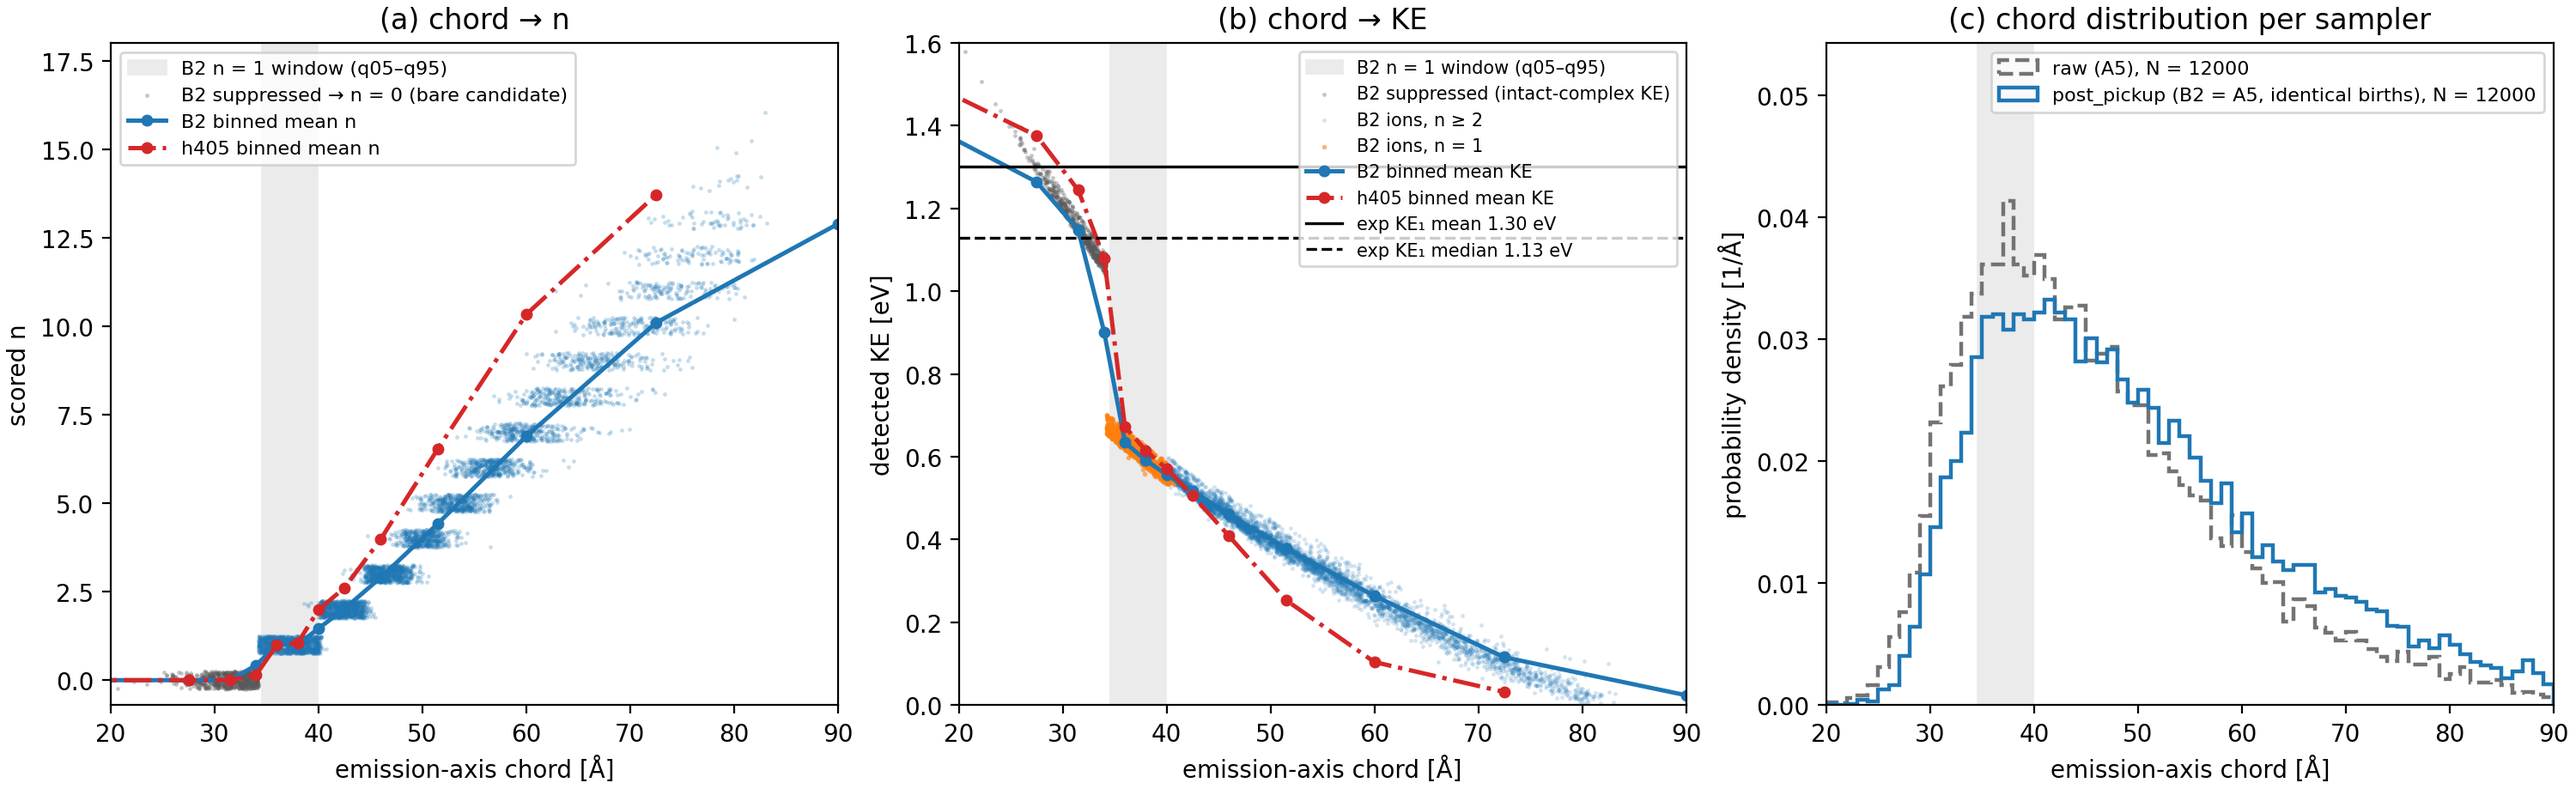
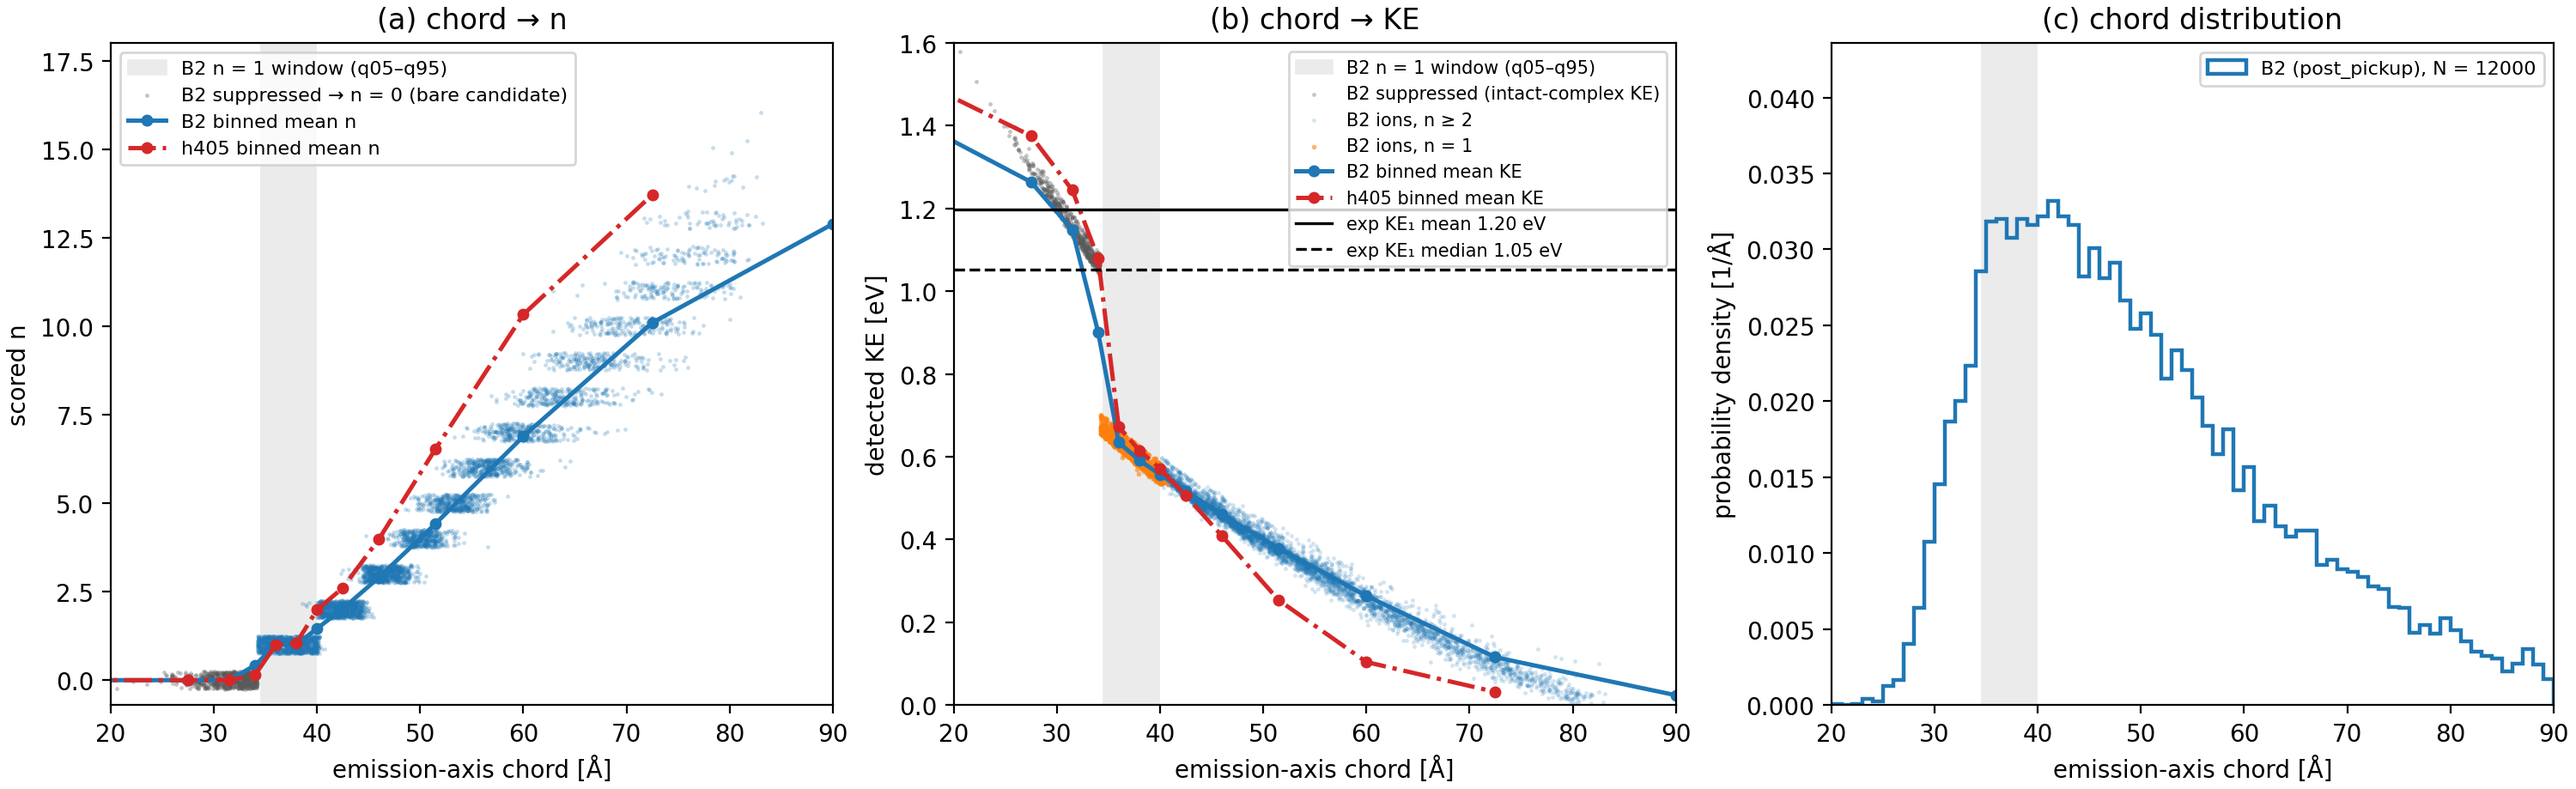
G7: KE width table on the v2 KED reference, n = 1-6; drop A5 from chord map
g7_ke_width.csv regenerated against the corrected ihe_ked curves (v2, G12)
and extended to n = 1-6 (the B2-3 panels): ratio exp/model 8.4, 8.5, 8.0,
8.2, 6.6, 5.2 (v1: 7.7-8.1 at n = 1-4). Model side unchanged (same pool).
g6_chord_stats.csv: only exp_KE1_sigma_eV moves to v2 (0.6674).

tier2_g6_chord_map.py: A5 run directories are no longer on disk, so the
raw-sampler overlay and the A5 chord-identity check are removed; panel (c)
shows the B2 chord distribution only. Anchor on g5_postpickup_chord.csv
still passes. THESIS_DISCUSSION §1 / §1.1 updated (table, 5-8x wording,
v2 KE1 deficit, B2-3 caption sentence).

diff --git a/i2_helium_md/scripts/post_processing/tier2_g6_chord_map.py b/i2_helium_md/scripts/post_processing/tier2_g6_chord_map.py
@@ -18,9 +18,10 @@ its run directories are no longer on disk) overlaid from the committed
     marked (KE of the intact complex -- their fragmentation is open, RQ3), the B2 n = 1 window
     (chord q05-q95 of the n = 1 ions) shaded, experimental KE1 mean / median
     as horizontal lines;
-(c) chord distribution per sampler (raw: A5; ``post_pickup``: B2, whose
-    births and chords are bit-identical to A5 ``post_pickup`` -- checked):
-    geometry reweights the chord axis only; the law does not enter.
+(c) B2 chord distribution: geometry reweights the chord axis only; the law
+    does not enter. (The raw-sampler A5 overlay and the B2 = A5
+    ``post_pickup`` chord identity check, done 2026-10-13, were dropped
+    2026-10-24: the A5 run directories are no longer on disk.)
 
 Chord = straight path from the birth point along the explosion axis to the
 droplet surface (``emission_chords``; ignores deflection and the soft erf
@@ -33,13 +34,13 @@ the B2 member dirs reproduces the committed ``lqppb2`` rows of
 
 Also writes the G7 numbers (n = 1 window, KE1 spread, KE slope along the
 chord) to ``data/runs/h2b_forward_model/g6_chord_stats.csv`` and the KE
-width at fixed n = 1-4 (model vs experiment, IQR / median) to
-``g7_ke_width.csv``. Experimental quantiles come from the unsmoothed 3-D
-P(E) of ``IHe_KED_curves_n{n}.csv`` (dE-weighted; the n = 1 curve equals
-the spectra file). They do not reproduce the reference median / mean
-columns exactly (n = 1: median 1.168 vs 1.128, mean 1.372 vs 1.302 eV --
-the reference applies cuts not re-done here), so only the relative width
-is taken from them; central values stay the reference columns.
+width at fixed n = 1-6 (model vs experiment, IQR / median; the B2-3 KED
+panels) to ``g7_ke_width.csv``. Experimental quantiles come from the
+unsmoothed 3-D P(E) of the corrected (v2, G12) ``IHe_KED_curves_n{n}.csv``
+(dE-weighted). They do not reproduce the reference median column exactly
+(curve medians 4-11 % high, n = 1: 1.094 vs 1.053 eV -- the reference
+applies cuts not re-done here), so only the relative width is taken from
+them; central values stay the reference columns.
 
 Writes ``data/figures/thesis_tier2/g6_chord_map.{png,pdf}`` (not committed).
 
@@ -80,10 +81,7 @@ import matplotlib.pyplot as plt  # noqa: E402
 from i2_helium_md.postprocess.ihe_ked import load_ihe_ked_reference  # noqa: E402
 from i2_helium_md.simulation.detection_stage import load_detection_result  # noqa: E402
 from scripts.gen_tier2_detfix_battery import MEMBER_SEEDS  # noqa: E402
-from scripts.gen_tier2_detfix_postpickup import (  # noqa: E402
-    B2_C, B2_E0_EV, B2_TAU_PS, a5_member_cell, lq_run_dir,
-)
-from scripts.gen_tier2_g414_tauline import run_dir_for as a5_run_dir_for  # noqa: E402
+from scripts.gen_tier2_detfix_postpickup import B2_C, B2_E0_EV, B2_TAU_PS, lq_run_dir  # noqa: E402
 from scripts.post_processing.tier2_detfix_postpickup_table import (  # noqa: E402
     CHORD_CSV as H405_CHORD_CSV,
     chord_rows,
@@ -98,14 +96,13 @@ from scripts.post_processing.tier2atlas_geometry_table import (  # noqa: E402
 STATS_CSV = RUNS_ROOT / "h2b_forward_model" / "g6_chord_stats.csv"
 WIDTH_CSV = RUNS_ROOT / "h2b_forward_model" / "g7_ke_width.csv"
 KED_CURVE_TEMPLATE = IHE_KED_REFERENCE_CSV.parent / "IHe_KED_curves_n{n}.csv"
-WIDTH_N = (1, 2, 3, 4)
+WIDTH_N = (1, 2, 3, 4, 5, 6)
 SUPPRESSED = "suppressed"
 N_START = 21                        # intact shell size of a suppressed ion
 SUPP_MAX_CHORD_A = 35.0             # bins entirely below this may hold suppressed ions
 ANCHOR_COLS = ("ions", "retained_frac", "n1_frac", "mean_n", "mean_KE_eV")
 STYLE = {"B2": dict(color="#1f77b4", ls="-"),
-         "h405": dict(color="#d62728", ls="-."),
-         "A5 raw": dict(color="0.45", ls="--")}
+         "h405": dict(color="#d62728", ls="-.")}
 
 
 def _b2_dirs() -> list[Path]:
@@ -244,8 +241,6 @@ def main() -> int:
     b2_dirs = _b2_dirs()
     _check_anchor(b2_dirs)
     b2 = _per_ion(b2_dirs)
-    a5_raw = _per_ion([a5_run_dir_for(a5_member_cell(m)) for m in MEMBER_SEEDS])
-    a5_pp = _per_ion([lq_run_dir(m) for m in MEMBER_SEEDS])
     s_all = b2["scored"]
     if not (np.array_equal(b2["supp"] & s_all, s_all & (b2["n"] == N_START))
             and b2["chord"][b2["supp"]].max() < SUPP_MAX_CHORD_A):
@@ -328,18 +323,13 @@ def main() -> int:
             ylabel="detected KE [eV]", title="(b) chord → KE")
     axk.legend(fontsize=7.5, loc="upper right")
 
-    if not np.array_equal(a5_pp["chord"], b2["chord"]):
-        raise RuntimeError("A5 post_pickup and B2 chords differ (births should be identical)")
     edges = np.arange(lo, hi + HIST_BIN_A, HIST_BIN_A)
-    for label, d, text in (("A5 raw", a5_raw, "raw (A5)"),
-                           ("B2", b2, "post_pickup (B2 = A5, identical births)")):
-        axc.hist(d["chord"], bins=edges, density=True, histtype="step", lw=1.6,
-                 color=STYLE[label]["color"], ls=STYLE[label]["ls"],
-                 label=f"{text}, N = {d['chord'].size}")
+    axc.hist(b2["chord"], bins=edges, density=True, histtype="step", lw=1.6,
+             **STYLE["B2"], label=f"B2 (post_pickup), N = {b2['chord'].size}")
     axc.axvspan(*win, color="0.92", zorder=0)
     axc.set_ylim(0, 1.25 * axc.get_ylim()[1])
     axc.set(xlim=CHORD_RANGE_A, xlabel="emission-axis chord [Å]",
-            ylabel="probability density [1/Å]", title="(c) chord distribution per sampler")
+            ylabel="probability density [1/Å]", title="(c) chord distribution")
     axc.legend(fontsize=8)
 
     png, pdf = OUT_DIR / "g6_chord_map.png", OUT_DIR / "g6_chord_map.pdf"

diff --git a/i2_helium_md/docs/drag_port/Tier2/THESIS_DISCUSSION.md b/i2_helium_md/docs/drag_port/Tier2/THESIS_DISCUSSION.md
@@ -77,8 +77,9 @@ non-uniqueness is reported as a finding.
 Figure: `scripts/post_processing/tier2_g6_chord_map.py` →
 `data/figures/thesis_tier2/g6_chord_map.{png,pdf}` (not committed): (a) scored n
 vs chord (suppressed → n = 0, scorer convention), (b) KE vs chord, B2 per ion (N = 6000 pool, 12 000 fragments)
-with the old-bundle map (h405 `post_pickup`, binned) overlaid, (c) chord
-distribution per sampler. Numbers: `g5_postpickup_chord.csv` (binned,
+with the old-bundle map (h405 `post_pickup`, binned) overlaid, (c) B2 chord
+distribution (the raw-sampler A5 overlay was dropped 2026-10-24: its runs
+are no longer on disk). Numbers: `g5_postpickup_chord.csv` (binned,
 `lqppb2`; the script anchors on it to 4 dp), `detfix_postpickup_chord.csv`
 (h405), `g6_chord_stats.csv` (n = 1 window, KE₁ spread).
 
@@ -115,8 +116,8 @@ distribution per sampler. Numbers: `g5_postpickup_chord.csv` (binned,
   surface. This is why radial birth depth is the weaker proxy.
 - **Consequences.**
   - Geometry (droplet size, sampler, birth depth) only reweights the chord
-    distribution (panel c: B2 and A5 `post_pickup` have bit-identical
-    chords — the law does not enter; `post_pickup` shifts weight from
+    distribution (B2 and A5 `post_pickup` had bit-identical chords,
+    checked 2026-10-13 — the law does not enter; `post_pickup` shifts weight from
     < 40 Å to long chords); drag, τ, E₀ and the ladder set the map. The
     histogram is the chord distribution pushed through one map.
   - **No geometry change can move KE₁.** The n = 1 window position on the
@@ -147,22 +148,32 @@ Numbers: `g6_chord_stats.csv`, `g7_ke_width.csv` (both from
   the KE slope along the chord (−0.021 eV/Å) times the chord spread inside
   the window; the residual at fixed chord is 0.012 eV. n at fixed chord is
   equally sharp (panel a: discrete bands, adjacent n overlap over ≈ 1–2 Å).
-- KE width at fixed n, model vs experiment (IQR / median):
+- KE width at fixed n, model vs experiment (IQR / median; corrected KED
+  reference v2, G12; refreshed 2026-10-24 and extended to n = 1–6, the
+  B2-3 KED panels):
 
-  | n | model (B2) | experiment | ratio |
+  | n | model (B2) | experiment (v2) | ratio |
   |---|---|---|---|
-  | 1 | 0.101 | 0.804 | 8.0 |
-  | 2 | 0.086 | 0.702 | 8.1 |
-  | 3 | 0.092 | 0.706 | 7.7 |
-  | 4 | 0.090 | 0.691 | 7.7 |
+  | 1 | 0.101 | 0.847 | 8.4 |
+  | 2 | 0.086 | 0.730 | 8.5 |
+  | 3 | 0.092 | 0.733 | 8.0 |
+  | 4 | 0.090 | 0.733 | 8.2 |
+  | 5 | 0.116 | 0.773 | 6.6 |
+  | 6 | 0.152 | 0.789 | 5.2 |
 
-  The model is ≈ 8× too narrow in relative width at every n (consistent
-  with §7.4, measured there at the earlier law). In absolute terms the gap
-  at n = 1 is larger (σ 0.70 vs SD 0.038 eV, ≈ 18×) because the model
-  median is about half the experimental one. Experimental quartiles are
-  read from the unsmoothed 3-D P(E) (`IHe_KED_curves_n*.csv`); they match
-  the reference median / mean columns to ≈ 4–5 % only (cuts not re-done),
-  so only the relative width is taken from them.
+  The model is ≈ 8× too narrow in relative width at n = 1–4, falling to
+  ≈ 5× by n = 6 (the model width grows with n, the experimental one
+  barely); consistent with §7.4, measured there at the earlier law. (v1
+  values, 2026-10-13: experiment 0.69–0.80, ratio 7.7–8.1 at n = 1–4; the
+  model side is unchanged.) In absolute terms the gap at n = 1 is larger
+  (σ 0.67 vs SD 0.038 eV, ≈ 18×) because the model median is about half
+  the experimental one. Experimental quartiles are read from the
+  unsmoothed 3-D P(E) (`IHe_KED_curves_n*.csv`, v2); their medians sit
+  4–11 % above the reference median column (cuts not re-done), so only
+  the relative width is taken from them.
+  Caption sentence (B2-3): the simulated distributions are 5–8× narrower
+  than the experiment (IQR / median 0.09–0.15 vs 0.73–0.85, n = 1–6;
+  ≈ 8× for n ≤ 4).
 
 **Statement for the thesis.**
 1. "KE₁ is geometry-invariant" holds **within the deterministic model**:
@@ -170,11 +181,12 @@ Numbers: `g6_chord_stats.csv`, `g7_ke_width.csv` (both from
    fixed chord, and the map through it is near-deterministic, so KE₁
    cannot change.
 2. The experimental KE width at fixed n shows the real map **scatters**
-   (≈ 8× wider). With scatter the n = 1 window gets blurred edges and a
+   (≈ 5–8× wider). With scatter the n = 1 window gets blurred edges and a
    chord-window selection can bias KE₁. Size (PROJECTION, not measured):
    at most the KE slope × a shift of the window's mean chord by up to half
    its width, −0.021 eV/Å × 2.7 Å ≈ 0.06 eV — small against the
-   0.5–0.7 eV KE₁ deficit, so the deficit is not a geometry artefact of the
+   0.45–0.6 eV KE₁ deficit (v2: exp median 1.05 / mean 1.20 vs model
+   0.61 eV), so the deficit is not a geometry artefact of the
    deterministic map.
 3. The near-determinism is partly **by construction**: the model has no
    fluctuation channel (zero noise; Langevin channel deferred to Tier 3),
